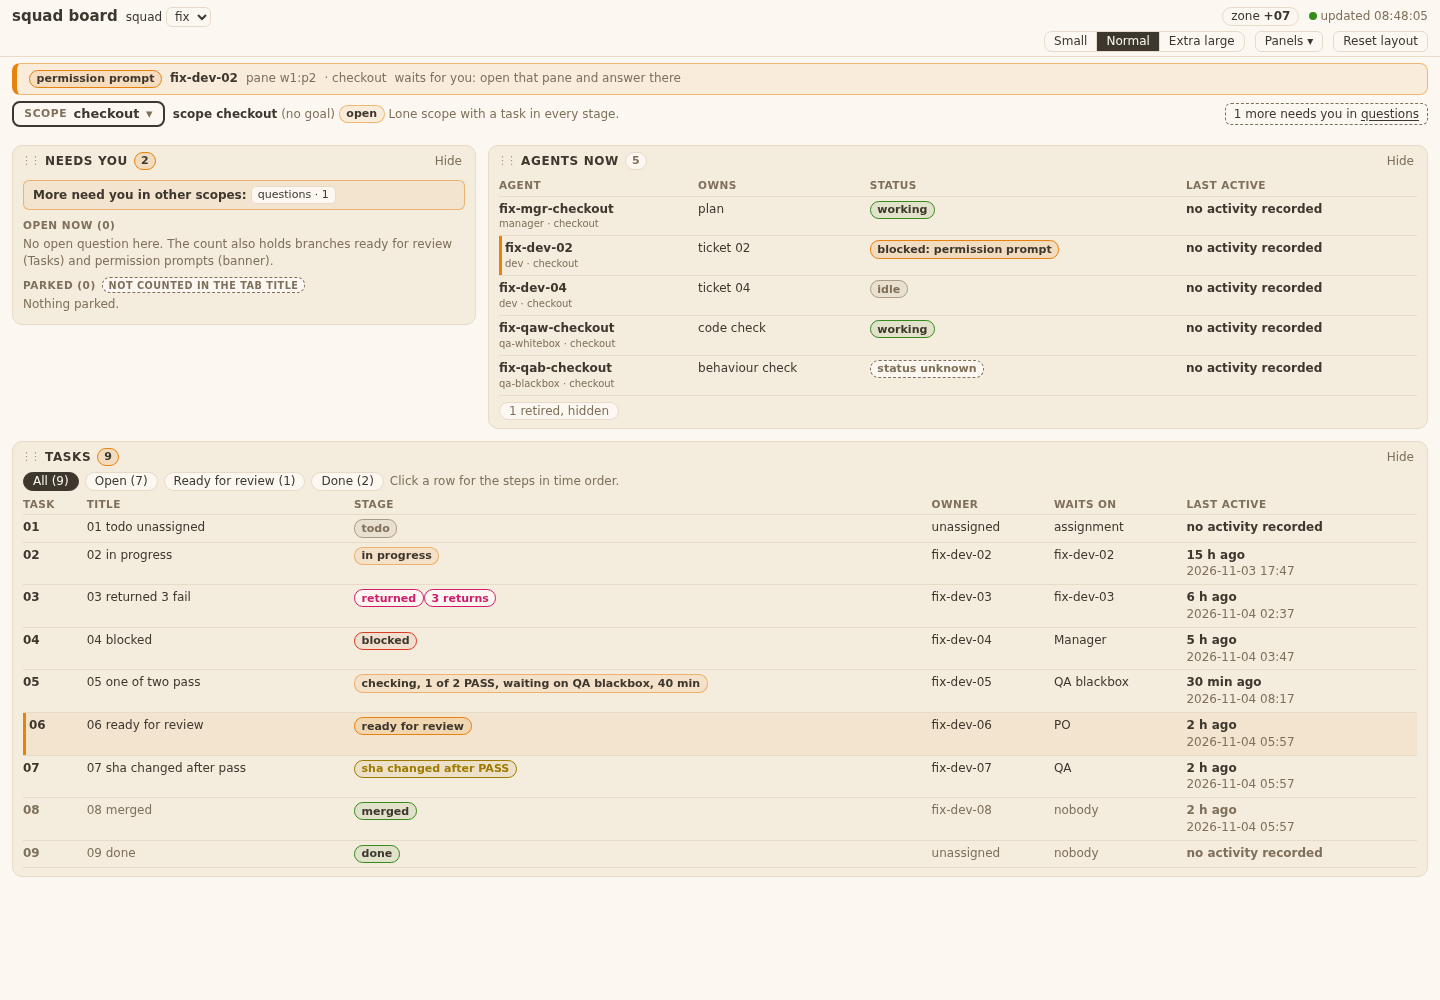
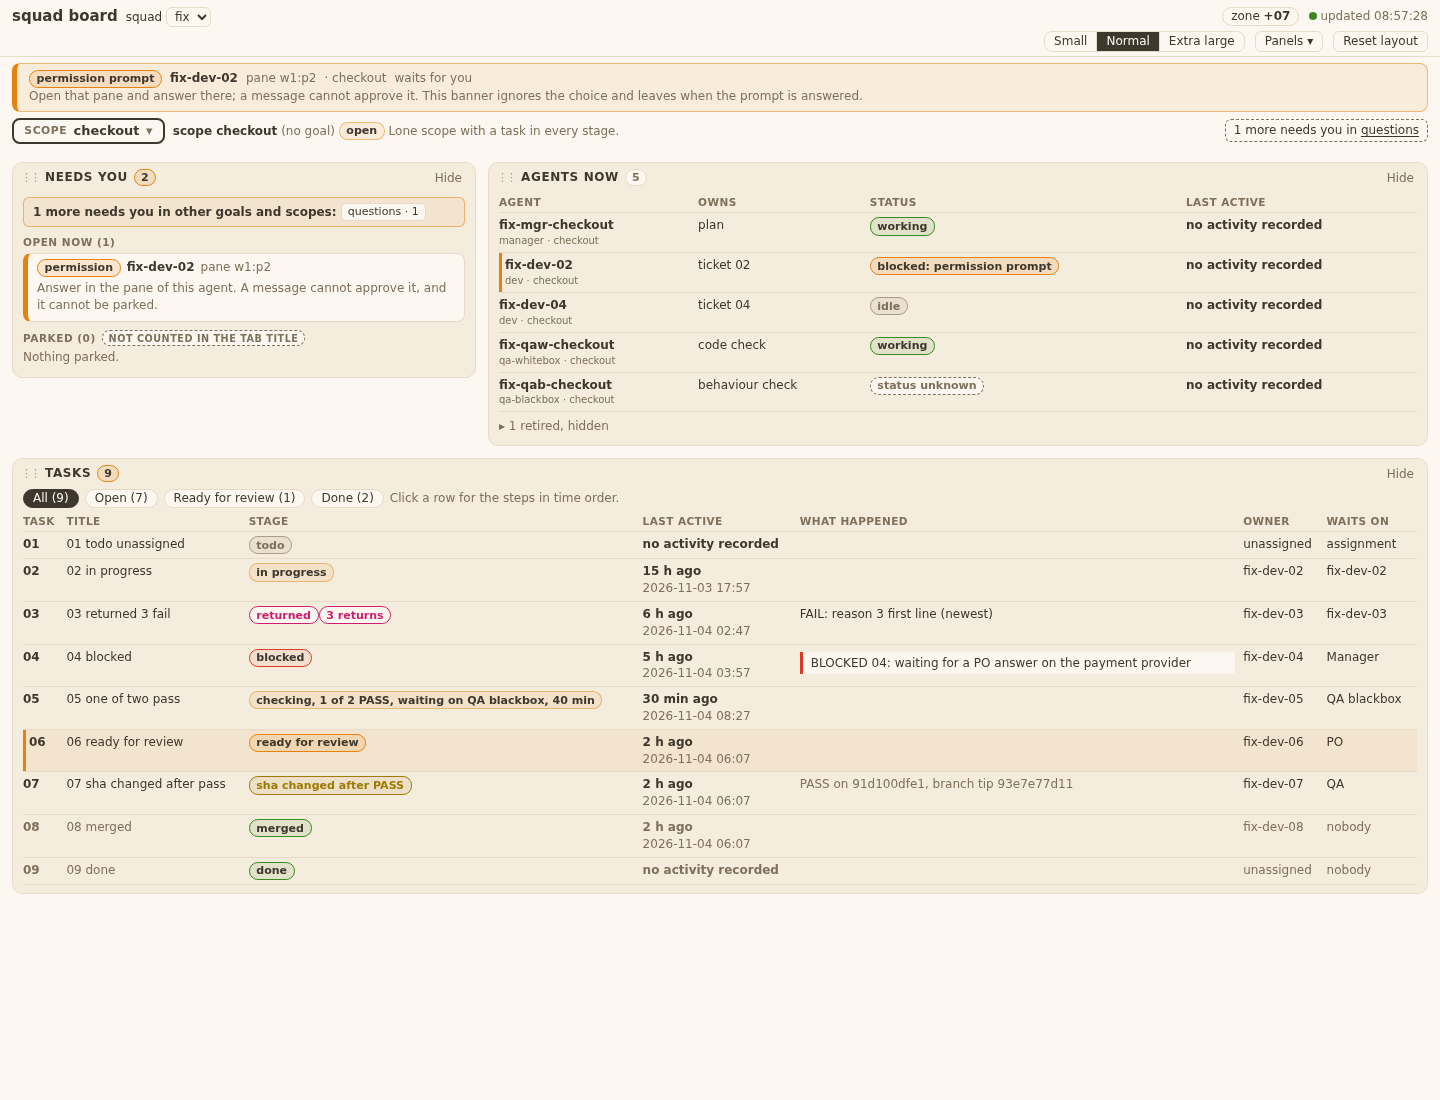
dashboard 12: evidence, fresh screenshots

diff --git a/.scratch/dashboard/issues/12-page-needs-you-tasks-agents/evidence.md b/.scratch/dashboard/issues/12-page-needs-you-tasks-agents/evidence.md
@@ -13,10 +13,18 @@ Real server on the ticket-02 fixture (`squad-board --scope checkout`), Chrome 14
 - Data change (FINAL 12): `data.parked_rows` and `data.parked_warnings` added to `/api/inbox` (additive, schema_version 1); files `bin/squadboard_inbox.py` and `tests/test_squadboard_inbox.py` are outside the ticket's touched-files list, approved by the Manager.
 - Registration: no board.js edit. Panels register themselves; `index.html` has one script line per panel.
 
+## Known limits and differences from the design
+- Tab title: `/api/inbox` needs a choice (400 without), so the picker keeps the ticket 11 client sum until a choice is selected. Manager to know.
+- AC3 uses the word "recommended", not "Manager recommends".
+- AC10: no "Park: copy command" button; the command is text with a "copy" button.
+- Not built (no data in the payload): "Agents involved" column, ready-for-review item in Needs you, "Open the picker" button in the others note.
+- "retired" is a button styled as a disclosure.
+- `board.js` diff is 0 lines (TA1 says 3): panels self-register via `BOARD.registerPanel`.
+- Files outside the touched list: `bin/squadboard_inbox.py`, `tests/test_squadboard_inbox.py`, `templates/board/index.html`, `tests/test_squadboard_page.py`.
+- Screens: the empty, inbox-unknown and herdr-unknown states are covered by tests, not new screenshots.
+
 ![all panels, scope checkout](img/checkout-all-panels.png)
-![task 06 ready for review, detail open](img/checkout-ready-detail.png)
 ![Needs you with open item, options, parked row](img/questions-open-parked.png)
-![herdr not running](img/herdr-unknown.png)
 
 ## Tests run
-`test_squadboard_panels`, `test_squadboard_page`, `test_squadboard_inbox`: 59 pass. Grep rule (`templates/board`, `index.html`, `panel_scopes`): hits are these three files plus unrelated report tests (`index.html` of the report), not affected.
+`test_squadboard_panels`, `test_squadboard_page`, `test_squadboard_inbox`: 90 pass (also `test_squadreport_rollup`, `test_squadreport_rollup_ui`, the grep hits). Grep rule (`templates/board`, `index.html`, `panel_scopes`): hits are these three files plus unrelated report tests (`index.html` of the report), not affected.
